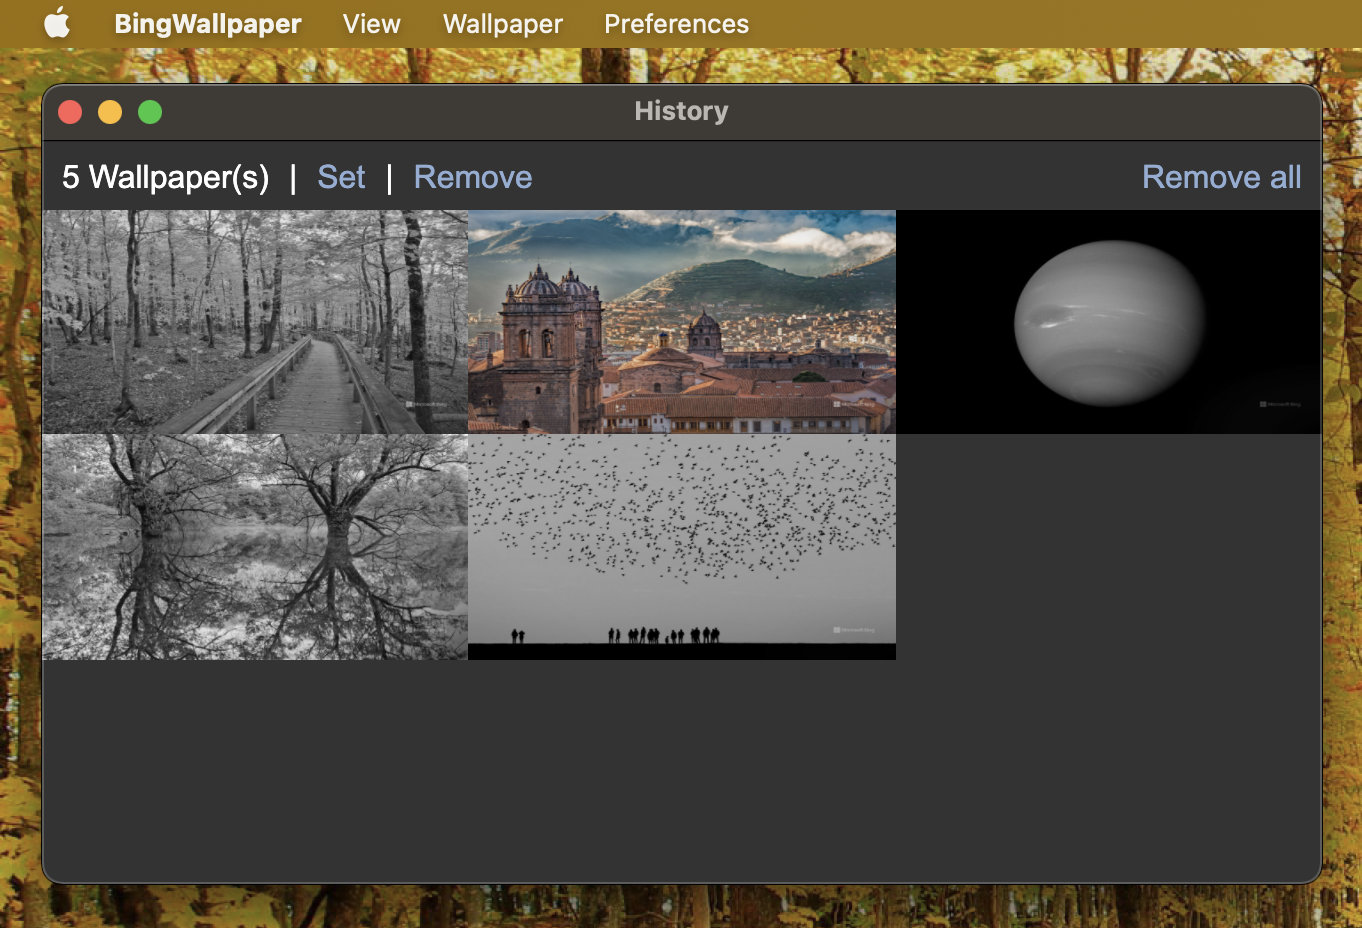
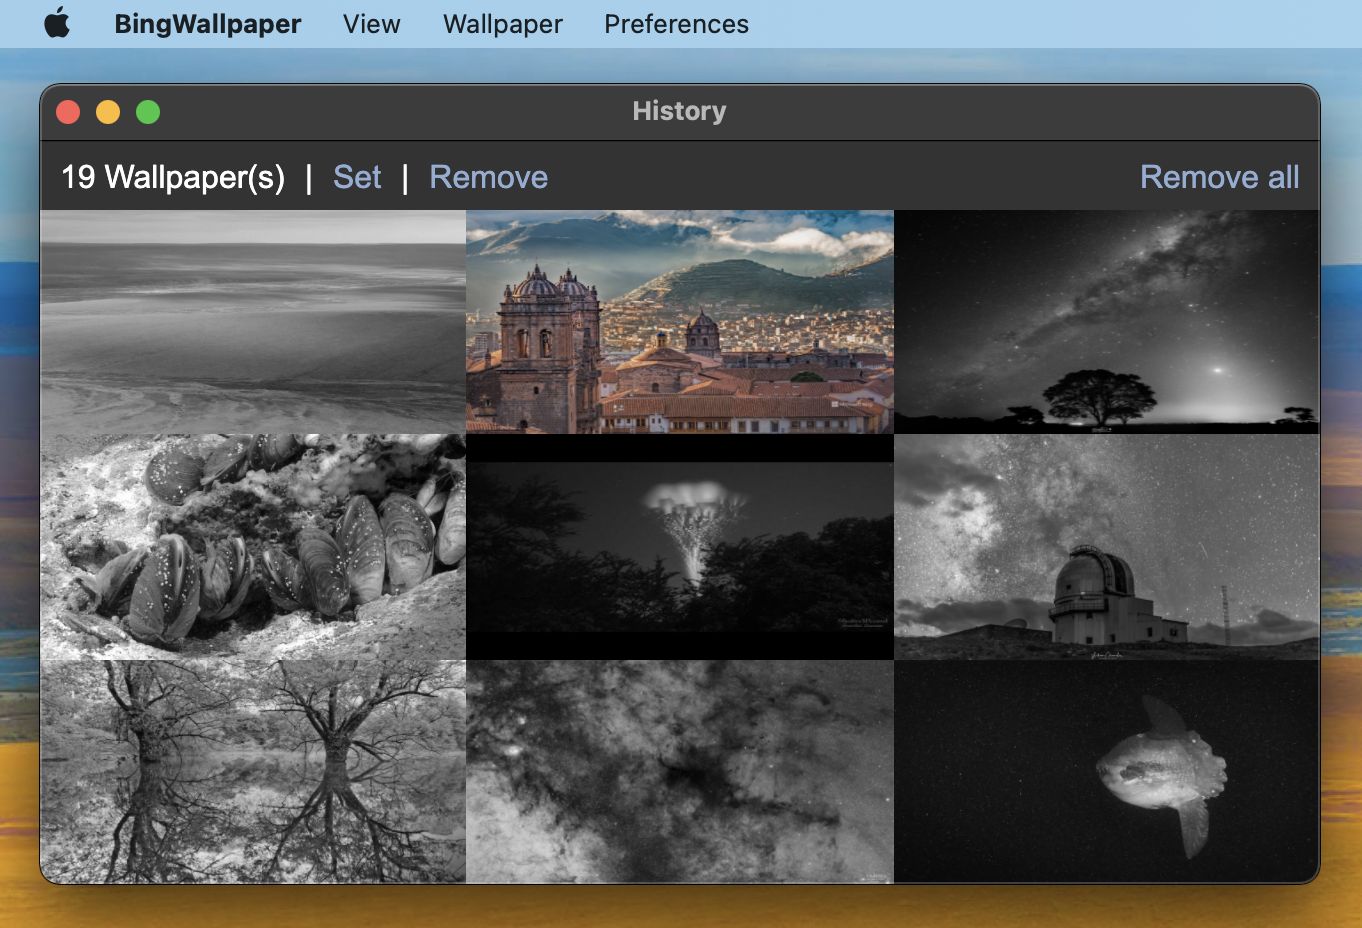
Release 1.1.0

diff --git a/README.md b/README.md
@@ -4,6 +4,7 @@
 * Originally planned to retrieve the daily [Bing Wallpaper](https://www.bing.com/)
 * Multi other wallpaper sources are supported
     * [Ocean Exploration](https://oceanexplorer.noaa.gov/multimedia/daily-image/)
+    * [Astronomy Picture of the Day](https://apod.nasa.gov/apod/)
     * [Hello  Madam](https://www.bonjourmadame.fr/)
 * Custom user wallpaper can by set by drag and dropping an image to the application wallpaper screen
 * Multi-language support (French, English, Spanish) with auto-detection and fallback to English 
@@ -17,8 +18,8 @@
 
 # Downloads
 
-* [MacOS (M1) : BingWallpaper-1.0.9-arm64.dmg](https://github.com/uparlange/bing-wallpaper/releases/download/v1.0.9/BingWallpaper-1.0.9-arm64.dmg)
-* [Windows (x64) : BingWallpaper-1.0.9-x64.exe](https://github.com/uparlange/bing-wallpaper/releases/download/v1.0.9/BingWallpaper-1.0.9-x64.exe)
+* [MacOS (M1) : BingWallpaper-1.1.0-arm64.dmg](https://github.com/uparlange/bing-wallpaper/releases/download/v1.1.0/BingWallpaper-1.1.0-arm64.dmg)
+* [Windows (x64) : BingWallpaper-1.1.0-x64.exe](https://github.com/uparlange/bing-wallpaper/releases/download/v1.1.0/BingWallpaper-1.1.0-x64.exe)
 * Linux : Todo, maybe ....
 
 # Screenshots
